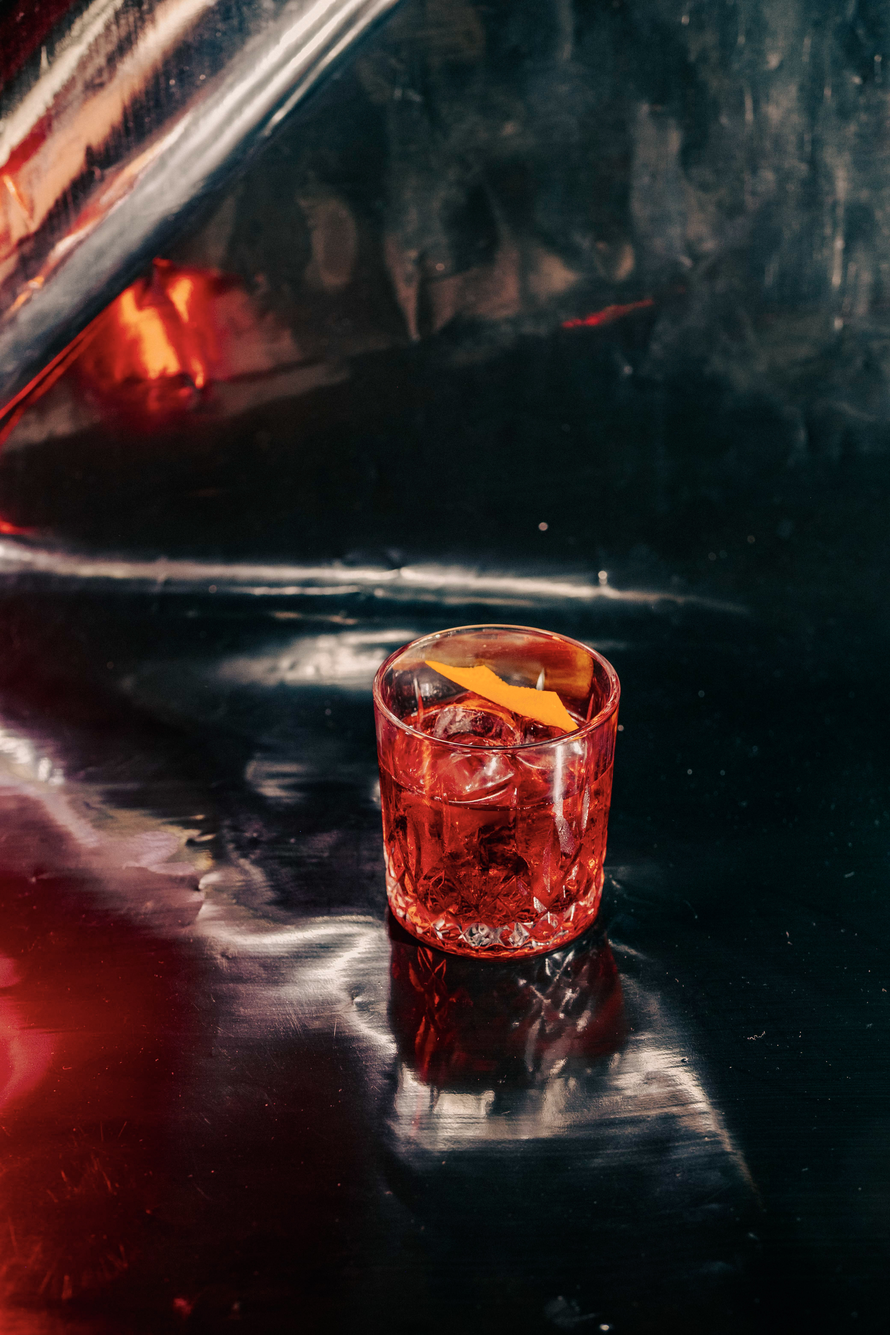
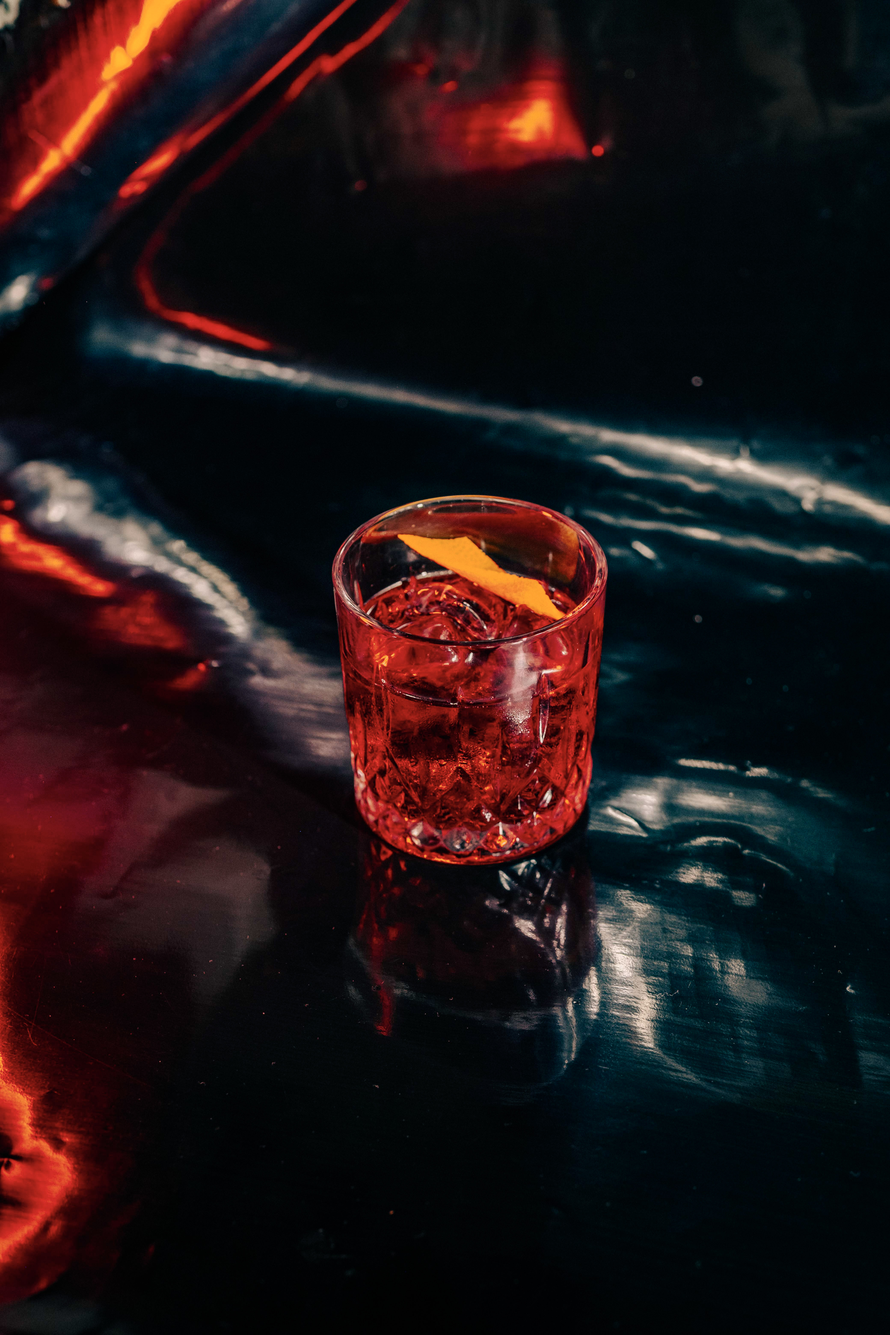
add pictures for the cocktail cards

diff --git a/script.js b/script.js
@@ -64,29 +64,29 @@ document.addEventListener('DOMContentLoaded', () => {
             { name: 'Irish Highball', description: 'Bushmill\'s Original / honey soda / ginger beer / sour', descriptionPolish: 'Bushmill\'s Original / honey soda / ginger beer / sour', price: 34, image: 'IrishHighball.jpg' }
         ],
         krakenCocktails: [
-            { name: 'Thaiquiri', description: 'Kraken Black Spiced Rum / melon liquer / passionfruit puree / pandan syrup', descriptionPolish: 'Kraken Black Spiced Rum / irish cream / syrop waniliowy / syropcynamonowy / śmietanka / mleko', price: 38 },
-            { name: 'Kraken Colada', description: 'Kraken Black Spiced / pineapple puree / coconut syrup / lime / cardamon bitter', descriptionPolish: 'Kraken Black Spiced Rum / wermut / dymna whisky / Amaro Montenegro / bitter', price: 38 },
-            { name: 'Strawberry Bloom', description: 'Kraken Black Spiced Rum / Malibu / strawberry puree / almond syrup / lime', descriptionPolish: 'Kraken Black Spiced Rum / Metaxa / syrop gruszkowy / sour/ rozmaryn', price: 38 },
-            { name: 'Tokyo Midnight', description: 'Kraken Black Spiced Rum / Kahlua / Sherry / espresso / banana / miso / maple syrup', descriptionPolish: 'Kraken Black Spiced Rum / likier kawowy / swieży sok z pomarańczy / syrop czekoladowy / sour', price: 37 },
-            { name: 'Fiji Watermelon', description: 'Planteray Isle of Fiji Rum / melon liquer / watermelon - mint cordial / chilli tincture / Angostura Cocoa Bitter', descriptionPolish: 'Kraken Black Spiced Rum / piwo imbirowe / limonka', price: 34},
-            { name: 'Yuzu Pandan Breeze', description: 'Planteray Cut & Dry Coconut Rumu / melon liquer / Yuzu puree / pandan syrup / lime', descriptionPolish: 'Kraken Black Spiced Rum / limonka / cukier / Cava / bitter / mieta', price: 35}
+            { name: 'Thaiquiri', description: 'Kraken Black Spiced Rum / melon liquer / passionfruit puree / pandan syrup', descriptionPolish: 'Kraken Black Spiced Rum / irish cream / syrop waniliowy / syropcynamonowy / śmietanka / mleko', price: 38, image: 'Thaiquiri.jpg' },
+            { name: 'Kraken Colada', description: 'Kraken Black Spiced / pineapple puree / coconut syrup / lime / cardamon bitter', descriptionPolish: 'Kraken Black Spiced Rum / wermut / dymna whisky / Amaro Montenegro / bitter', price: 38, image: 'KrakenColada.jpg' },
+            { name: 'Strawberry Bloom', description: 'Kraken Black Spiced Rum / Malibu / strawberry puree / almond syrup / lime', descriptionPolish: 'Kraken Black Spiced Rum / Metaxa / syrop gruszkowy / sour/ rozmaryn', price: 38, image: 'StrawberryBloom.jpg' },
+            { name: 'Tokyo Midnight', description: 'Kraken Black Spiced Rum / Kahlua / Sherry / espresso / banana / miso / maple syrup', descriptionPolish: 'Kraken Black Spiced Rum / likier kawowy / swieży sok z pomarańczy / syrop czekoladowy / sour', price: 37, image: 'TokioMidnight.jpg' },
+            { name: 'Fiji Watermelon', description: 'Planteray Isle of Fiji Rum / melon liquer / watermelon - mint cordial / chilli tincture / Angostura Cocoa Bitter', descriptionPolish: 'Kraken Black Spiced Rum / piwo imbirowe / limonka', price: 34, image: 'WatermelonFiji.jpg' },
+            { name: 'Yuzu Pandan Breeze', description: 'Planteray Cut & Dry Coconut Rumu / melon liquer / Yuzu puree / pandan syrup / lime', descriptionPolish: 'Kraken Black Spiced Rum / limonka / cukier / Cava / bitter / mieta', price: 35, image: 'YuzuPandanBreeze.jpg' }
         ],
         classicCocktails: [
-            { name: 'Pornstar Martini', description: 'vodka / passion fruit puree / lime / Cava', descriptionPolish: 'wodka / puree z marakui / limonka / Cava', price: 36 },
-            { name: 'Dark & Stormy', description: 'Kraken Black Spiced / ginger beer / lime', descriptionPolish: 'Italicus / gin / Campari / wermut', price: 36 },
-            { name: 'Modern Bramble', description: 'Gibson\'s Gin / Chambord / sour / strawberry-blackberry foam', descriptionPolish: 'Pisco / limonka / syrop z agawy / bialko jajka / bitter kardamonowy', price: 35 },
-            { name: 'Old Cuban', description: 'Kraken Black Spiced / lime / sugar syrup / Angostura Bitter / mint / Cava', descriptionPolish: 'Evan Williams Kentucky Straight Bourbon / sour / syrop klonowy / bitter / bialko jajka', price: 33 },
-            { name: 'Whiskey Sour // New York', description: '', descriptionPolish: 'wódka / Jose Cuervo Silver / rum / Gibson\'s Gin / Archers / sour/ pepsi', price: 39 },
-            { name: 'Bergamot Negroni', description: 'Italicus / Gin / Campari / vermouth', descriptionPolish: 'Gibson\'s Gin / Chambord / sour / cukier', price: 34 }
+            { name: 'Pornstar Martini', description: 'vodka / passion fruit puree / lime / Cava', descriptionPolish: 'wodka / puree z marakui / limonka / Cava', price: 36, image: 'Pornstar.jpg' },
+            { name: 'Dark & Stormy', description: 'Kraken Black Spiced / ginger beer / lime', descriptionPolish: 'Italicus / gin / Campari / wermut', price: 36, image: 'DarkAndStormy.jpg' },
+            { name: 'Modern Bramble', description: 'Gibson\'s Gin / Chambord / sour / strawberry-blackberry foam', descriptionPolish: 'Pisco / limonka / syrop z agawy / bialko jajka / bitter kardamonowy', price: 35, image: 'ModernBramble.jpg' },
+            { name: 'Old Cuban', description: 'Kraken Black Spiced / lime / sugar syrup / Angostura Bitter / mint / Cava', descriptionPolish: 'Evan Williams Kentucky Straight Bourbon / sour / syrop klonowy / bitter / bialko jajka', price: 33, image: 'OldCuban.jpg' },
+            { name: 'Whiskey Sour // New York', description: '', descriptionPolish: 'wódka / Jose Cuervo Silver / rum / Gibson\'s Gin / Archers / sour/ pepsi', price: 39, image: 'NewYorkSour.jpg' },
+            { name: 'Bergamot Negroni', description: 'Italicus / Gin / Campari / vermouth', descriptionPolish: 'Gibson\'s Gin / Chambord / sour / cukier', price: 34, image: 'Negroni.jpg' }
         ],
         jackDanielsCocktails: [
-            { name: 'Lynchbourg Lemonade', description: 'Jack Daniel\'s / Cointreau / sour / sugar / 7up', descriptionPolish: 'Jack Daniel\'s / Cointreau / sour / cukier / 7up', price: 34 },
-            { name: 'Gin Basil Smash', description: 'Gin Mare / fresh basil / lime / sugar', descriptionPolish: 'Gin Mare / swieża bazylia / limonka / cukier', price: 40 },
-            { name: 'Penicilin', description: 'Benriach Smoky 10yo / ginger-honey syrup / sour', descriptionPolish: 'Benriach Smoky 10yo / syrop miodowo - imbirowy / sour', price: 40},
-            { name: 'Gimlet', description: 'Ford\'s Gin / lime 1 sugar', descriptionPolish: 'Ford\'s Gin / limonka / cukier', price: 32 },
-            { name: 'Boulvardier', description: 'Jack Daniels Triple Mash / Campari / vermouth', descriptionPolish: 'Jack Daniels Triple Mash / Campari / wermut', price: 38 },
-            { name: 'Woodford Old Fashioned', description: 'Woodford Reserve / bitters / sugar /', descriptionPolish: 'Woodford Reserve / bitter / cukier', price: 42},
-            { name: 'Botucal Daiquiri', description: 'Botucal Riserva Exclusiva / lime / sugar', descriptionPolish: 'Botucal Riserva Exclusiva / limonka / cukier', price: 0 },
+            { name: 'Lynchbourg Lemonade', description: 'Jack Daniel\'s / Cointreau / sour / sugar / 7up', descriptionPolish: 'Jack Daniel\'s / Cointreau / sour / cukier / 7up', price: 34, image: 'LynczburgLemonade.jpg' },
+            { name: 'Gin Basil Smash', description: 'Gin Mare / fresh basil / lime / sugar', descriptionPolish: 'Gin Mare / swieża bazylia / limonka / cukier', price: 40, image: 'GinBasilSmash.jpg' },
+            { name: 'Penicilin', description: 'Benriach Smoky 10yo / ginger-honey syrup / sour', descriptionPolish: 'Benriach Smoky 10yo / syrop miodowo - imbirowy / sour', price: 40, image: 'Penicilin.jpg' },
+            { name: 'Gimlet', description: 'Ford\'s Gin / lime 1 sugar', descriptionPolish: 'Ford\'s Gin / limonka / cukier', price: 32, image: 'Gimlet.jpg' },
+            { name: 'Boulvardier', description: 'Jack Daniels Triple Mash / Campari / vermouth', descriptionPolish: 'Jack Daniels Triple Mash / Campari / wermut', price: 38, image: 'Boulvardier.jpg' },
+            { name: 'Woodford Old Fashioned', description: 'Woodford Reserve / bitters / sugar /', descriptionPolish: 'Woodford Reserve / bitter / cukier', price: 42, image: 'OldFashioned.jpg' },
+            { name: 'Botucal Daiquiri', description: 'Botucal Riserva Exclusiva / lime / sugar', descriptionPolish: 'Botucal Riserva Exclusiva / limonka / cukier', price: 0 }
         ],
         shots: [
             { name: 'Homemade Lemon Vodka', description: '', descriptionPolish: '', price: 15 },
@@ -101,14 +101,14 @@ document.addEventListener('DOMContentLoaded', () => {
         ],
         mocktails: [
             { name: 'Aperol Spritz', description: 'Martini Vibrante 0% / Prosecco 0% / soda / orange', descriptionPolish: 'Martini Vibrante 0% / Prosecco 0% / woda gazowana / pomarancza', price: 28 },
-            { name: 'Jasmine Flower', description: 'Tanqueraj Gin 0% / jasmine cordial / lavender syrup / pineapple puree', descriptionPolish: 'Martini Floreale 0% / sok ananasowy / sour / Thomas Henry Botanical Tonic / szczypta soli', price: 32 },
+            { name: 'Jasmine Flower', description: 'Tanqueraj Gin 0% / jasmine cordial / lavender syrup / pineapple puree', descriptionPolish: 'Martini Floreale 0% / sok ananasowy / sour / Thomas Henry Botanical Tonic / szczypta soli', price: 32, image: 'JasminFlower.jpg' },
             { name: 'Hugo', description: 'Prosecco 0% / lime / fresh mint / elderflower syrup / soda', descriptionPolish: 'Prosecco 0% / limonka / swieża mieta / syrop z bzu / woda gazowana', price: 29 },
-            { name: 'Lavendula', description: 'Gin 0% / rosemary / sour / lavender syrup / tonic', descriptionPolish: 'Gin 0% / rozmaryn / sour / syrop lawendowy / tonik', price: 31 },
-            { name: 'Czarno-Bialy Bez', description: 'Gin 0% / lime / elderflower syrup / elderflower jam', descriptionPolish: 'Gin 0% / limonka / syrop z bzu / konfitura z bzu', price: 30},
-            { name: 'Gin Basil Smash', description: 'Gin 0% / sour / sugar / fresh basil', descriptionPolish: 'Gin 0% / sour / cukier / swieża bazylia', price: 27},
-            { name: 'Kiwi Crush', description: 'Tanqueraj Gin 0% / prosecco 0% / kiwi puree / lavender syrup / lime', descriptionPolish: 'Gin 0% / sour / cukier / swieża bazylia', price: 33},
+            { name: 'Lavendula', description: 'Gin 0% / rosemary / sour / lavender syrup / tonic', descriptionPolish: 'Gin 0% / rozmaryn / sour / syrop lawendowy / tonik', price: 31, image: 'Lavendula.jpg' },
+            { name: 'Czarno-Bialy Bez', description: 'Gin 0% / lime / elderflower syrup / elderflower jam', descriptionPolish: 'Gin 0% / limonka / syrop z bzu / konfitura z bzu', price: 30, image: 'CzarnoBialy.jpg' },
+            { name: 'Gin Basil Smash', description: 'Gin 0% / sour / sugar / fresh basil', descriptionPolish: 'Gin 0% / sour / cukier / swieża bazylia', price: 27, image: 'GinBasilSmash.jpg' },
+            { name: 'Kiwi Crush', description: 'Tanqueraj Gin 0% / prosecco 0% / kiwi puree / lavender syrup / lime', descriptionPolish: 'Gin 0% / sour / cukier / swieża bazylia', price: 33, image: 'KiwiCrush.jpg' },
 
-            { nmae: 'Haze 4x40 ML', description: 'homemade CBD syrup / Martini Floreale 0% / passionfruit puree / lime', descriptionPolish: 'syrop CBD własny / Martini Floreale 0% / puree z marakui / limonka', price: 32},
+            { nmae: 'Haze 4x40 ML', description: 'homemade CBD syrup / Martini Floreale 0% / passionfruit puree / lime', descriptionPolish: 'syrop CBD własny / Martini Floreale 0% / puree z marakui / limonka', price: 32 }
         ],
         softDrinks: [
             { name: 'Matcha Honey Lemonade', description: 'matcha / honey / sour', descriptionPolish: 'matcha / miód / sour', price: 22},
@@ -246,7 +246,7 @@ document.addEventListener('DOMContentLoaded', () => {
                         </div>
                         <div class="card-back">
                             <h3>${drink.name}</h3>
-                            <img src="${section === 'redLightCocktails' && drink.name ? 'RedLightProductFinal/' + drink.image : 'RedLightMenuPNGs/' + getDrinkImage(section, drink.name)}" alt="${drink.name}">
+                            <img src="${getDrinkImage(section, drink)}" alt="${drink.name}">
                         </div>
                     `;
                     grid.appendChild(drinkItem);
@@ -256,14 +256,11 @@ document.addEventListener('DOMContentLoaded', () => {
     }
 
     // Function to get appropriate image for each drink
-    function getDrinkImage(section, drinkName) {
-        if (section === 'redLightCocktails') {
-            const drink = drinksData.redLightCocktails.find(d => d.name === drinkName);
-            if (drink && drink.image) {
-                return `../RedLightProductFinal/${drink.image}`;
-            }
+    function getDrinkImage(section, drink) {
+        if (drink && drink.image) {
+            return 'RedLightProductFinal/' + drink.image;
         }
-        return 'testcocktail.jpg';
+        return 'RedLightMenuPNGs/testcocktail.jpg';
     }
 
     // Initialize drink items
